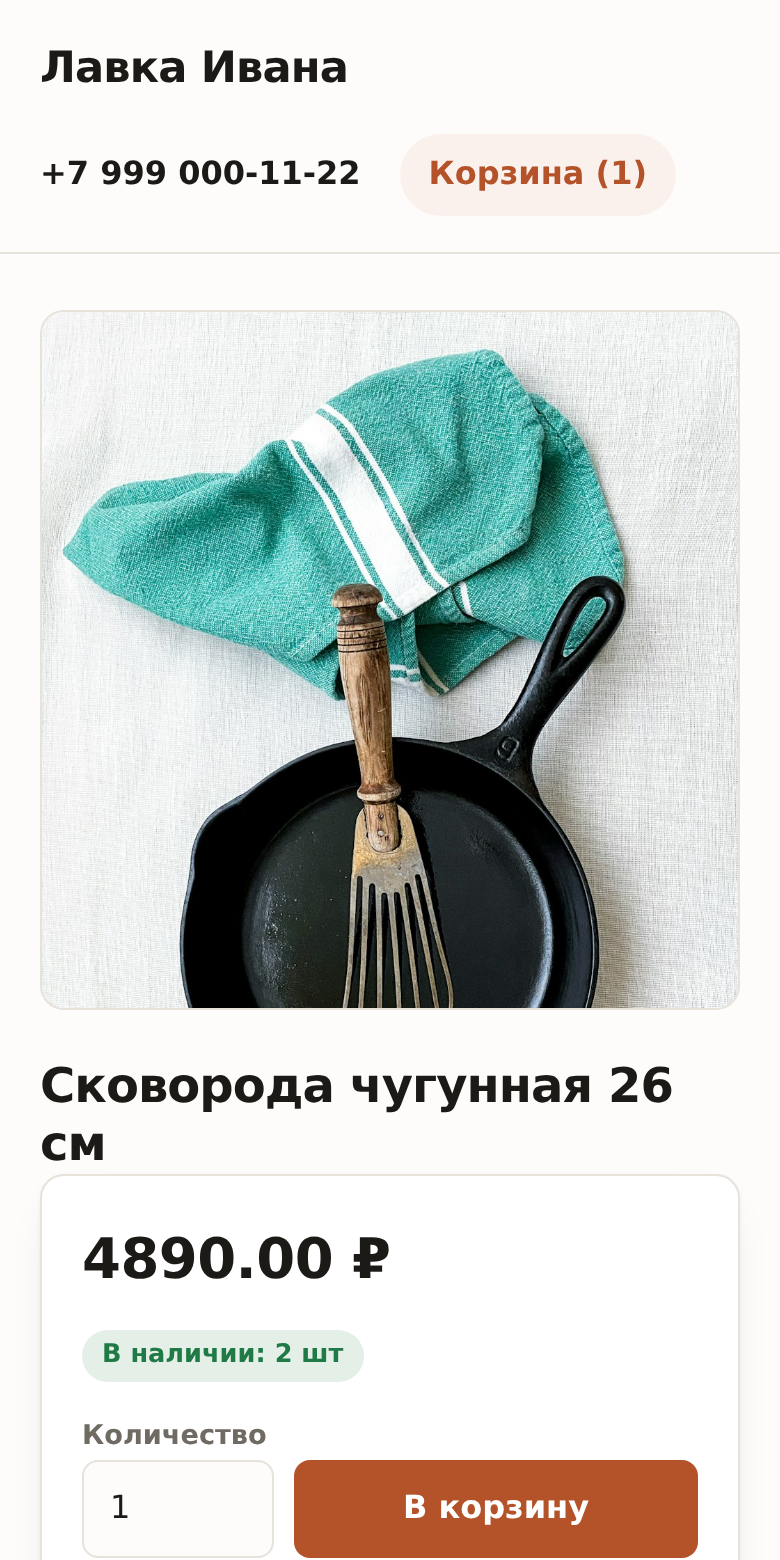
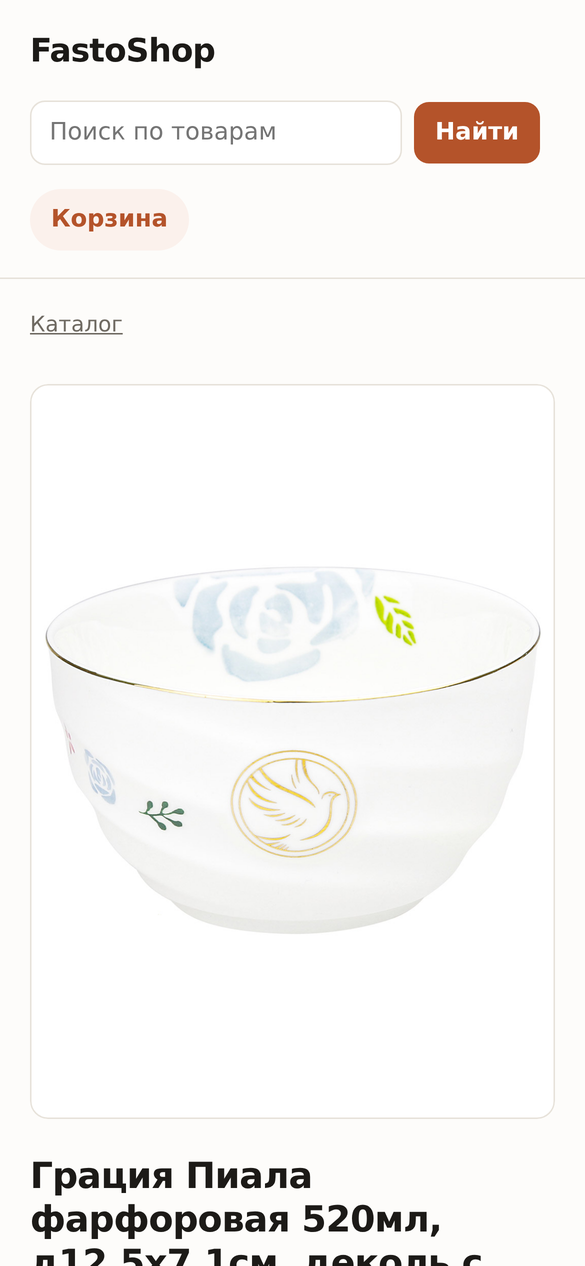
fix(admin): dialog scrolls itself, screenshots without the client's brand
The product dialog grew taller than the window, and Save sat below the fold —
the whole backdrop scrolled instead, which nobody guesses. It now has a fixed
height with its own scrolling body: header and buttons stay in view. Measured
in dvh rather than vh, or the bottom hides under the mobile address bar.

Screenshots are retaken on a throwaway shop named FastoShop: the old ones
carried a customer's eagle logo and their company name, which has no business
being in our README. Captured at 2x and written at 1x — same sharpness, a
quarter of the weight.

diff --git a/web/src/Modal.tsx b/web/src/Modal.tsx
@@ -28,7 +28,7 @@ export default function Modal({ title, onClose, children, footer }: Props) {
 
   return (
     <div
-      className="fixed inset-0 z-50 flex items-start justify-center overflow-y-auto bg-black/40 p-4 sm:p-8"
+      className="fixed inset-0 z-50 flex items-start justify-center overflow-hidden bg-black/40 p-4 sm:p-8"
       onMouseDown={(e) => {
         // Only a click that both starts and ends on the backdrop closes the
         // dialog: releasing the mouse outside after selecting text inside must
@@ -36,8 +36,12 @@ export default function Modal({ title, onClose, children, footer }: Props) {
         if (e.target === e.currentTarget) onClose();
       }}
     >
-      <div className="card w-full max-w-3xl">
-        <div className="border-line mb-4 flex items-center justify-between border-b pb-3">
+      {/* Высота ограничена окном, прокручивается только тело: у товара с длинным
+          описанием и фотографиями «Сохранить» иначе уезжает под нижний край, и
+          владелец ищет кнопку прокруткой подложки. dvh, а не vh: на телефоне vh
+          считается без адресной строки, и низ диалога прячется под неё. */}
+      <div className="card flex max-h-[calc(100dvh-2rem)] w-full max-w-3xl flex-col sm:max-h-[calc(100dvh-4rem)]">
+        <div className="border-line flex shrink-0 items-center justify-between border-b pb-3">
           <h2 className="text-lg font-bold">{title}</h2>
           <button
             className="text-muted hover:text-ink cursor-pointer text-2xl leading-none"
@@ -47,9 +51,9 @@ export default function Modal({ title, onClose, children, footer }: Props) {
             ×
           </button>
         </div>
-        {children}
+        <div className="-mx-1 flex-1 overflow-y-auto px-1 py-4">{children}</div>
         {footer && (
-          <div className="border-line mt-4 flex items-center gap-3 border-t pt-4">
+          <div className="border-line flex shrink-0 items-center gap-3 border-t pt-4">
             {footer}
           </div>
         )}
